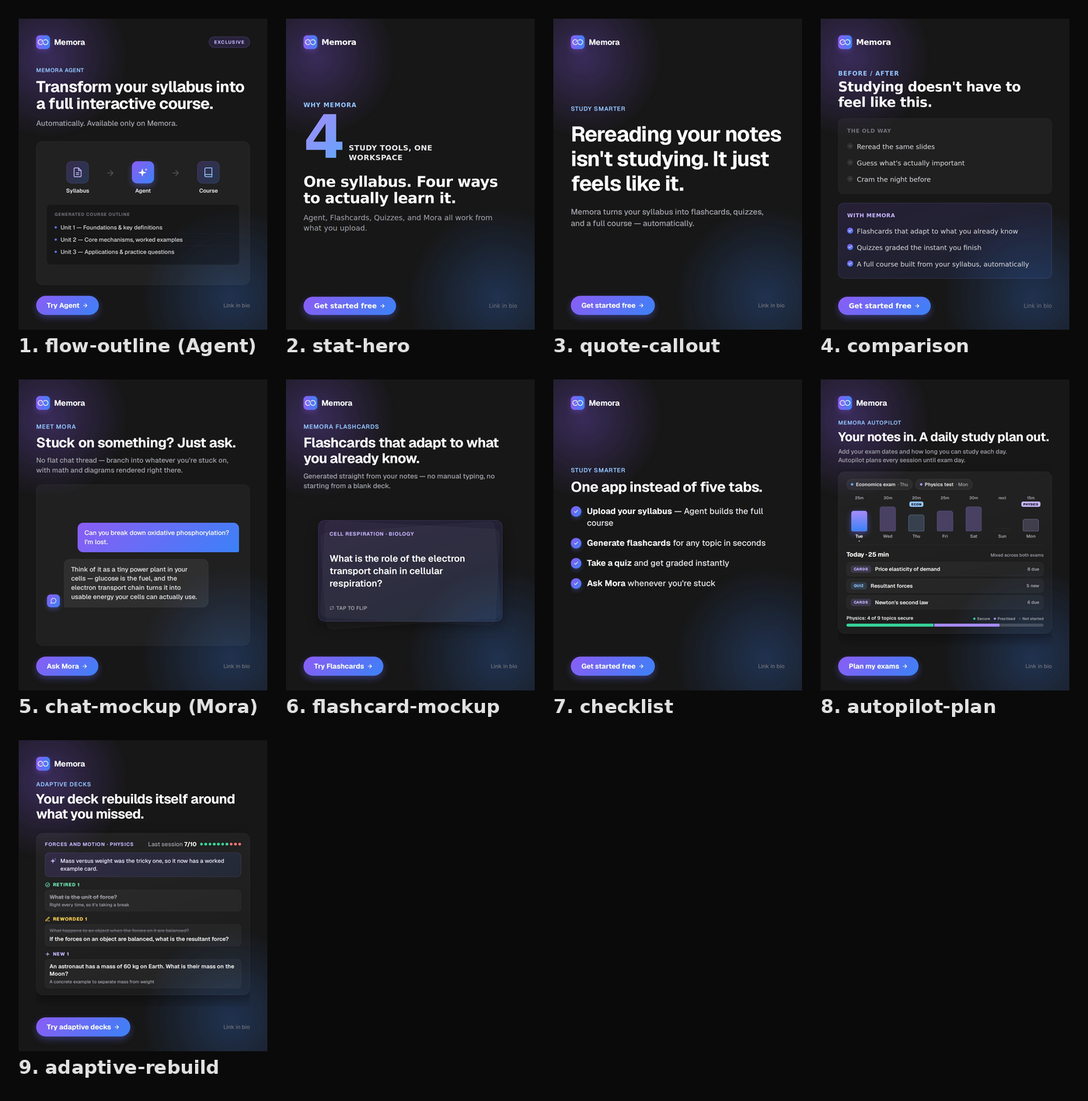
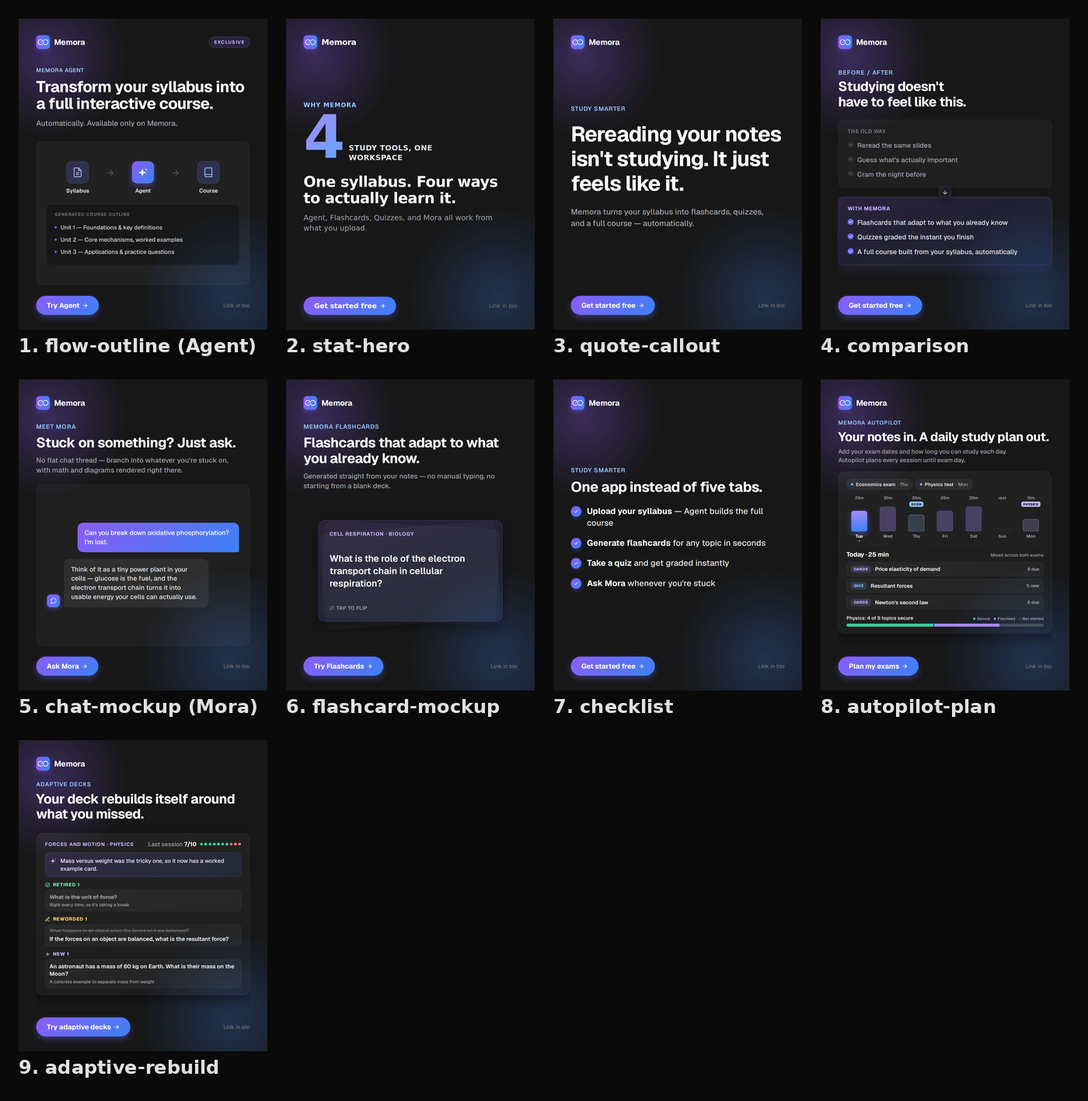
Update `comparison` to stacked bands with `old_*`/`new_*` fields, `RUNBOOK.md` for the Claude Code routine (attached previews repo, hard limits, dashboard commands in the report), and reel captions as copyable `txt` blocks

Changed region(s): [[0.7679, 0.0621, 0.9521, 0.3107]]

diff --git a/post-templates/single-image-card/layouts/comparison/template.html b/post-templates/single-image-card/layouts/comparison/template.html
@@ -30,16 +30,21 @@
   .link-in-bio { color: #71717a; font-size: 24px; font-weight: 500; }
   .hero { flex: 1; display: flex; flex-direction: column; min-height: 0; overflow: hidden; }
 
-  /* ---- layout-specific: two-column before/after split ---- */
-  .comparison-hero { justify-content: flex-start; }
-  .comparison-hero .eyebrow { margin-top: 60px; color: #93c5fd; font-size: 26px; font-weight: 600; letter-spacing: 0.08em; text-transform: uppercase; margin-bottom: 10px; }
-  .comp-headline { color: #ffffff; font-size: 58px; font-weight: 700; letter-spacing: -0.02em; line-height: 1.15; }
-  .columns { flex: 1; min-height: 0; display: flex; align-items: stretch; gap: 36px; margin-top: 40px; }
-  .col { flex: 1; background: rgba(255,255,255,0.04); border: 1px solid rgba(255,255,255,0.08); border-radius: 24px; padding: 40px 38px; display: flex; flex-direction: column; gap: 30px; }
-  .col-new { background: linear-gradient(160deg, rgba(139,92,246,0.14), rgba(59,130,246,0.10)); border: 1px solid rgba(167,139,250,0.35); }
-  .col-title { font-size: 23px; font-weight: 700; letter-spacing: 0.06em; text-transform: uppercase; color: #71717a; margin-bottom: 6px; }
-  .col-new .col-title { color: #c4b5fd; }
-  .row { display: flex; align-items: flex-start; gap: 16px; color: #d4d4d8; font-size: 29px; font-weight: 500; line-height: 1.42; }
+  /* ---- layout-specific: before/after as two full-width bands stacked one above the other ---- */
+  /* "The old way" band on top, "With Memora" band below, each sized to its content; the whole group is centred vertically. */
+  .comparison-hero { justify-content: center; }
+  .comparison-hero .eyebrow { color: #93c5fd; font-size: 26px; font-weight: 600; letter-spacing: 0.08em; text-transform: uppercase; margin-bottom: 10px; }
+  .comp-headline { color: #ffffff; font-size: 58px; font-weight: 700; letter-spacing: -0.02em; line-height: 1.15; text-wrap: balance; }
+  .bands { position: relative; display: flex; flex-direction: column; align-items: stretch; gap: 40px; margin-top: 44px; }
+  .band { width: 100%; background: rgba(255,255,255,0.04); border: 1px solid rgba(255,255,255,0.08); border-radius: 24px; padding: 34px 40px 36px; display: flex; flex-direction: column; gap: 22px; }
+  .band-new { background: linear-gradient(160deg, rgba(139,92,246,0.16), rgba(59,130,246,0.10)); border: 1px solid rgba(167,139,250,0.40); box-shadow: 0 18px 50px rgba(99,102,241,0.16); }
+  .band-title { font-size: 23px; font-weight: 700; letter-spacing: 0.06em; text-transform: uppercase; color: #71717a; margin-bottom: 4px; }
+  .band-new .band-title { color: #c4b5fd; }
+  .band-old .row { color: #a1a1aa; }
+  /* down-arrow between the two bands */
+  .band-arrow { align-self: center; margin: -48px 0; width: 56px; height: 56px; border-radius: 50%; background: #1f1f23; border: 1px solid rgba(167,139,250,0.45); display: flex; align-items: center; justify-content: center; box-shadow: 0 8px 24px rgba(0,0,0,0.45); z-index: 2; }
+  .band-arrow svg { width: 26px; height: 26px; color: #c4b5fd; }
+  .row { display: flex; align-items: flex-start; gap: 16px; color: #e4e4e7; font-size: 29px; font-weight: 500; line-height: 1.42; }
   .marker { flex-shrink: 0; width: 26px; height: 26px; border-radius: 50%; margin-top: 4px; display: flex; align-items: center; justify-content: center; }
   .marker-old { background: rgba(255,255,255,0.08); }
   .marker-old::after { content: ""; width: 10px; height: 2px; background: #71717a; border-radius: 1px; }
@@ -63,14 +68,15 @@
     <div class="hero comparison-hero">
       <div class="eyebrow">{{EYEBROW}}</div>
       <h1 id="headline" class="comp-headline">{{HEADLINE}}</h1>
-      <div class="columns">
-        <div class="col col-old">
-          <div class="col-title">{{LEFT_TITLE}}</div>
-          {{LEFT_ITEMS}}
+      <div class="bands">
+        <div class="band band-old">
+          <div class="band-title">{{OLD_TITLE}}</div>
+          {{OLD_ITEMS}}
         </div>
-        <div class="col col-new">
-          <div class="col-title">{{RIGHT_TITLE}}</div>
-          {{RIGHT_ITEMS}}
+        <div class="band-arrow"><svg viewBox="0 0 24 24" fill="none" stroke="currentColor" stroke-width="2.4" stroke-linecap="round" stroke-linejoin="round"><line x1="12" y1="5" x2="12" y2="19"/><polyline points="5 12 12 19 19 12"/></svg></div>
+        <div class="band band-new">
+          <div class="band-title">{{NEW_TITLE}}</div>
+          {{NEW_ITEMS}}
         </div>
       </div>
     </div>

diff --git a/post-templates/single-image-card/render.py b/post-templates/single-image-card/render.py
@@ -228,8 +228,8 @@ LAYOUTS = {
     },
     "comparison": {
         "list_fields": {
-            "left_items": lambda items: build_comparison_rows(items, "old"),
-            "right_items": lambda items: build_comparison_rows(items, "new"),
+            "old_items": lambda items: build_comparison_rows(items, "old"),
+            "new_items": lambda items: build_comparison_rows(items, "new"),
         },
         "fit_max_lines": 2,
         "fit_min_px": 38,

diff --git a/RUNBOOK.md b/RUNBOOK.md
@@ -1,22 +1,27 @@
 # Batch run
 
-The brief for the scheduled task. Every firing starts a **fresh, empty cloud container with no memory of how any of this was built**, so this file is the whole story — read it in full before doing anything. This file is meant to be self-contained -- everything needed to run a batch end to end is here.
+The brief for the daily **Claude Code routine** ("Memora outreach posts", claude.ai/code/routines) that makes Memora's single-image and slideshow posts and queues them as drafts for Armaan's review. Every run starts a **fresh cloud session with no memory of how any of this was built**, so this file is the whole story: read it in full before doing anything. (Reels are a separate routine with their own brief, `reels/REELS-RUNBOOK.md`; nothing here applies to them.)
 
 ## Where you are
 
-**A Cowork scheduled task running entirely in the cloud container — no device binding, and nothing here touches Armaan's Mac.** This isn't assumed, it's been checked (confirmed 2026-09-04): Playwright/Chromium is pre-installed, real outbound network reaches npm/PyPI/GitHub, and the Supabase MCP connector works — **but is proxied outside this container's own restricted shell egress**, the same way memora-growth's MCP connectors are proxied outside ITS shell's zero-network local Mac environment. Concretely: **the plain shell cannot reach `*.supabase.co` directly** (confirmed by the capability test's own failed raw upload attempt, and reconfirmed 2026-09-05 against Make.com's webhook host too — this is a general outbound allowlist, not a Supabase-specific block) — every Supabase read, write, and file upload in this run goes through `execute_sql` (an MCP tool call), never through `curl`/`requests`/a raw HTTP client in the shell.
+A Claude Code cloud session on Anthropic's infrastructure, started by the routine's schedule. Nothing here touches Armaan's Mac. What you can reach, and how:
 
-**First step of every run, before anything else:**
+- **Repositories (already cloned on their default branches by the routine; never clone them yourself):**
+  `memora-outreach-bot` (this pipeline: templates, `pipeline/`, `topics.json`, `claude-knowledge/`) and
+  `memora-outreach-render-previews` (private; the render worker pushes a copy of every finished render there, which is how you see it in Stage 5). Find both and give them fixed names before anything else:
+  ```bash
+  for d in "$PWD" "$PWD"/.. ~ /home/*; do for r in "$d"/*/; do u=$(git -C "$r" remote get-url origin 2>/dev/null) || continue
+    case "$u" in *memora-outreach-bot*) ln -sfn "${r%/}" ~/ob;; *memora-outreach-render-previews*) ln -sfn "${r%/}" ~/previews;; esac; done; done
+  ls -l ~/ob ~/previews && cd ~/ob
+  ```
+  If `~/ob` is missing, stop and report "the routine's repository list is missing memora-outreach-bot". If only `~/previews` is missing, carry on and use Stage 5's fallback.
+  Run every command below from `~/ob`. Your working files (`history_raw.json`, `content.json`, ...) live there as untracked files; nothing is ever committed.
+- **Supabase: only through the Supabase connector** (`execute_sql`, `get_project`). Project `memora-outreach` (id `dtyiuknezuzqohdxicbg`), the isolated outreach project, never memora-web's (the connector can see both; never touch the other one). The session's shell has no route to `*.supabase.co` or the render worker's `*.workers.dev` URL, and doesn't need one.
+- **GitHub: git only, through the session's GitHub proxy**, for the two attached repositories.
 
-```bash
-git clone <REPO_URL> outreach-bot && cd outreach-bot
-```
+Rendering does not happen in this session: Stage 4 queues it to `memora-render-worker` (a Cloudflare Worker) through a database row and polls for the result.
 
-`<REPO_URL>` — filled into the scheduled task's own prompt, not here, so this file doesn't go stale if the URL ever changes. A fresh container has nothing on disk otherwise: no templates, no `topics.json`, no `pipeline/` scripts.
-
-Supabase project: `memora-outreach` (id `dtyiuknezuzqohdxicbg`, `https://dtyiuknezuzqohdxicbg.supabase.co`). This is the isolated dashboard project, not memora-web's — never point anything at memora-web's project.
-
-Rendering itself does not happen in this container at all — it's queued to `memora-render-worker` (a separate Cloudflare Worker; see that repo's SETUP.md) and polled for. That Worker's own `*.workers.dev` URL is **also** unreachable directly from this container's shell, confirmed the same way as the `*.supabase.co` block above (2026-09-11) — so is `raw.githubusercontent.com` and `cdn.jsdelivr.net`, for what it's worth. `api.github.com` is the one arbitrary host that same proxy does let through, which is the only reason Stage 5 below is possible at all — see that stage for why.
+**Before Stage 0, check the project is awake:** `get_project` for `dtyiuknezuzqohdxicbg`. Free projects pause after about a week idle. If its status isn't `ACTIVE_HEALTHY`, stop and report "memora-outreach is paused: restore it in the Supabase dashboard, then run the routine again." Never restore it yourself.
 
 ## Hard rules
 
@@ -84,6 +89,8 @@ retired or added). Retired items are ones answered right every time; reworded on
 ones target exactly what the note says was missed. Use "deck"/"cards" or "quiz"/"questions" consistently with `eyebrow` and
 `material_label`. Never say rebuilding is free (it costs credits); the cards and questions are subject claims and get fact-checked.
 
+**comparison** is two full-width bands stacked one above the other: `old_title` / `old_items` (the old way) on top, `new_title` / `new_items` (with Memora) below. 2-4 items per band, ideally the same number in both, each short enough to sit on one line (about 45 characters or fewer). Every `new_items` line is a product claim and gets checked against `memora-overview.md` like any other.
+
 **stat-hero's `stat_unit` has a hard 3-line cap.** Unlike the headline, it has no auto-shrink at render time -- if it comes out past 3 lines the Worker throws and the render fails outright, not a style nit. Keep it well under 40 characters if you can; actual wrapping depends on word shapes as much as raw character count (a few short common words wrap far more forgivingly than one long compound one), so when in doubt, write it shorter than you think you need to.
 
 **Slideshows' closing (`type: "closer"`) slide must be freshly written every time, tied to the specific topic just covered -- never reuse `content-example.json`'s closer text as-is.** Its `heading` and `text` should read like the last beat of *this* topic's story (a callback to what the deck just covered, a one-line takeaway, a reason it mattered) -- if the exact same words would fit unedited onto a completely different topic's deck, rewrite them. `cta` can stay a simple "Link in bio"; it's the `heading`/`text` that need to change post to post.
@@ -125,31 +132,30 @@ Loop with a short pause between checks (this container has no scheduler of its o
 
 ### Stage 5 — Look at it (you, Claude, vision)
 
-Required for every post, both formats — same requirement as always, just a different route to the actual pixels. The rendered image only exists in Supabase Storage now (there's no local file on this container's own disk to `Read`), and this container's egress proxy blocks `*.supabase.co` and `*.workers.dev` outright (confirmed 2026-09-11 — see "Where you are" above), so neither Storage's public URL nor the Worker itself is directly reachable from here. `memora-render-worker` also pushes a copy of each rendered image to a small private GitHub repo for exactly this reason (see that repo's `src/index.js`, `pushPreview`).
+Required for every post, both formats. The rendered image only exists in Supabase Storage, which the session's shell can't reach, so `memora-render-worker` also pushes a copy of each render to the private `memora-outreach-render-previews` repository at `preview/<render_requests id>/<n>.jpg` (see that repo's `src/index.js`, `pushPreview`). The routine attaches that repository, so:
 
-Fetch that copy over git, not the REST Contents API — `api.github.com`'s Contents/tarball endpoints are gated by a session-level repo allowlist this container can't satisfy (confirmed 2026-09-12: same 403 regardless of whether the target repo is public or private), but plain git-over-HTTPS against `github.com` is not. A partial, sparse clone keeps this fast and bounded even as the previews repo accumulates every image it's ever received:
-
-1. Get the preview token — used only as a header value in step 2, never written into this run's own output or into any git config on disk:
-   ```sql
-   select decrypted_secret from vault.decrypted_secrets where name = 'github_preview_token';
-   ```
-2. Once per render (not once per image): fetch just this render's own folder, nothing else in the repo's history —
+1. Once `render_requests.status` is `done`, update the clone:
    ```bash
-   rm -rf preview_fetch && mkdir preview_fetch && cd preview_fetch
-   AUTH=$(printf 'x-access-token:%s' '<token from step 1>' | base64 | tr -d '\n')
-   git -c http.extraHeader="Authorization: Basic ${AUTH}" \
-       clone --no-checkout --depth 1 --filter=blob:none \
-       https://github.com/Armaan-Mahajan/memora-outreach-render-previews.git .
-   git sparse-checkout set --no-cone "preview/<render_requests id>"
-   git checkout
-   cd ..
-   unset AUTH
+   git -C ~/previews pull --ff-only --quiet
+   ls ~/previews/preview/<render_requests id>/
    ```
-   Use **Basic** auth, not Bearer -- GitHub's git-over-HTTPS smart protocol wants a PAT as an HTTP Basic password (username can be any non-empty string; `x-access-token` is the GitHub-documented convention). A raw `Authorization: Bearer <token>` header gets a 401 (confirmed 2026-09-12, first live run) -- go straight to Basic, don't rediscover this by trial and error each time. `-c http.extraHeader=...` is scoped to that one command -- it's never written into `.git/config`, and `unset AUTH` clears the encoded credential from the shell's environment once the clone finishes. `--filter=blob:none` plus the sparse-checkout means only this render's own images are ever downloaded, not the whole repo's accumulated history.
-3. `Read` each `preview_fetch/preview/<render_requests id>/<n>.jpg` in order (`1` for a single-image card, `1..slide_count` for a slideshow). There's no single contact-sheet image to lean on anymore now that rendering happens in the Worker — for slideshows, walk every slide individually. Check for orphaned words, cramped/empty composition, whether the cover earns a swipe (slideshows), whether the deck reads as a coherent sequence. Output: pass, or a specific list of fixes.
-4. `rm -rf preview_fetch` once you're done looking — don't let clones pile up across posts in the same run.
+   The worker pushes the preview just after it marks the row done; if the folder isn't there yet, `sleep 10` and pull again (up to 6 times).
+2. `Read` each `~/previews/preview/<render_requests id>/<n>.jpg` in order (`1` for a single-image card, `1..slide_count` for a slideshow; walk every slide). Check for orphaned words, cramped or empty composition, text that collides or overflows, whether the cover earns a swipe (slideshows) and whether the deck reads as a coherent sequence. Output: pass, or a specific list of fixes.
 
-If the clone itself fails — an expired token, an auth error, or `pushPreview` silently not landing a copy (it's deliberately best-effort on the Worker's side, so a GitHub hiccup there never fails an otherwise-good render) — that's still a Stage 5 failure: don't ship a post you couldn't actually look at. Report it and let Stage 6 or the stop-and-report path handle it.
+**Fallback, only if `~/previews` is missing** (the repository isn't attached): read the token with
+`select decrypted_secret from vault.decrypted_secrets where name = 'github_preview_token';` and fetch just this render's folder:
+```bash
+rm -rf ~/preview_fetch && mkdir ~/preview_fetch && cd ~/preview_fetch
+AUTH=$(printf 'x-access-token:%s' '<token>' | base64 | tr -d '\n')
+git -c http.extraHeader="Authorization: Basic ${AUTH}" clone --no-checkout --depth 1 --filter=blob:none \
+    https://github.com/Armaan-Mahajan/memora-outreach-render-previews.git .
+git sparse-checkout set --no-cone "preview/<render_requests id>"
+git checkout
+unset AUTH; cd ~/ob
+```
+Use **Basic** auth with the token as the password (a `Bearer` header gets a 401), never write the token into a file or git config, read the images from `~/preview_fetch/preview/<id>/`, then `rm -rf ~/preview_fetch`.
+
+If the preview never arrives or can't be fetched, that's still a Stage 5 failure: don't queue a post you couldn't look at. The worker's preview push is best-effort, so report it and let Stage 6 or the stop-and-report path handle it.
 
 ### Stage 6 — Repair loop
 
@@ -188,10 +194,36 @@ python3 pipeline/publish.py insert-sql \
   --notes "<Stage 3 / Stage 7 flags, or omit>"
 ```
 
-Run the printed `sql` via `execute_sql` once, then re-query the row back by its returned `id` to confirm it actually exists with `status = 'pending'` and the expected `asset_urls` — don't just trust the INSERT's own "returning id" as proof it landed. That's the draft queued as `status='pending'` for Armaan's dashboard review — nothing posts to Instagram itself yet (Make.com automation for posting is a separate, later build, unrelated to any of the above).
+Run the printed `sql` via `execute_sql` once, then re-query the row back by its returned `id` to confirm it actually exists with `status = 'pending'` and the expected `asset_urls` — don't just trust the INSERT's own "returning id" as proof it landed. That's the draft queued as `status='pending'` for Armaan's dashboard review. Nothing posts to Instagram: there is no posting automation yet, so approving a draft in the dashboard only changes its status.
 
 One fresh subagent per post here too, same reasoning as Stage 3.
 
 ### Stage 9 — Report
 
-Per post: made / flagged / failed, with reasons. Stdout is fine for now — the dashboard is the real review surface, this is just for debugging a run that didn't go as expected.
+Your final message is the report Armaan reads, so make it scannable:
+
+1. One line per post: `post <n>`: format, feature or topic, layout, headline, and **queued**, **queued with flags** (what Stage 3 / Stage 7 flagged) or **failed** (the stage and the reason). Then the batch total (e.g. "4 of 5 queued") and any repair attempts.
+2. Then, if at least one draft was queued, how to review them, as **copyable commands in their own fenced `bash` blocks** (exactly these, so he can paste them into his Mac's terminal):
+
+   Start the review dashboard:
+   ```bash
+   cd /Users/armaanmahajan/Documents/Projects/Memora/outreach-dashboard && npm run dev
+   ```
+   Then open it (in a second terminal tab, or paste the address into a browser):
+   ```bash
+   open http://localhost:3000
+   ```
+   Follow them with one line each: approve or reject each draft on the **Pending** tab; if port 3000 is already in use (for example by the demo app), Next.js picks the next free port and prints the address to open; stop the server with Ctrl+C when done. And say plainly: **approving doesn't post anything yet**, since there's no posting automation; it only marks the draft approved (rejected drafts are kept so their angles aren't reused).
+3. If nothing was queued, skip the commands and say what stopped the batch.
+
+Don't attach the report or the images as files: the drafts are in the dashboard.
+
+## Hard limits
+
+- **Database:** only the SQL this RUNBOOK names: the `get_project` check, Stage 0's two `select`s, Stage 4's insert (exactly as `publish.py render-request-sql` prints it) and its status poll, Stage 8's `storage.objects` size check and insert (exactly as `publish.py insert-sql` prints it) and its read-back, and Stage 5's fallback Vault read. Never hand-write an insert. No `UPDATE`, `DELETE`, `DROP`, `ALTER`, `TRUNCATE` or other DDL, no RLS or policy changes, nothing on any other table, nothing on any other Supabase project.
+- **Vault:** read only `github_preview_token`, and only for Stage 5's fallback. Never print, echo or log a secret.
+- **Repositories:** never edit, commit or push anything. Your only git commands are Stage 5's `pull` in `~/previews` (or its fallback clone in `~/preview_fetch`) and the lookup at the top of this file.
+- **Shell:** the repository lookup and `ls`; `python3 pipeline/history.py|assign.py|checks.py|publish.py` with the arguments shown here (never `python3 -c` or any other script); `sleep`; `cd`, `mkdir`; `rm -rf` on `~/preview_fetch` only; and the fallback's `printf | base64 | tr` with `unset AUTH`. Write JSON files with the file tools. No `curl`, `wget`, `ssh`, `chmod`, `sudo` or package installs.
+- **Subagents:** one fresh subagent per post per stage (Stages 3 and 8), never one subagent for two posts.
+- **Failures:** one bad post fails alone and the batch carries on; a systemic failure (Supabase unreachable, every render failing, the worker not responding) stops the batch and gets reported.
+- **Posting:** drafts only. Never post to Instagram or anywhere else, and never change a draft's status.

diff --git a/README.md b/README.md
@@ -37,14 +37,14 @@ A normal run makes three planned reels. Next: deeper coverage of the quiz viewer
 
 ## images (`pipeline/`, `post-templates/`)
 
-The original automation: single-image posts and slideshow carousels, drafted daily by a scheduled cloud run (1AM IST) that follows `RUNBOOK.md`.
+The original automation: single-image posts and slideshow carousels, drafted daily by a Claude Code routine that follows `RUNBOOK.md` and ends its report with the commands to open the review dashboard locally.
 
 - **Topics.** `topics.json` is a curated allowlist of about 190 topics, split roughly evenly between upper high school (AP, IB DP, A-Level) and younger high school (ages 13-15), each tagged with its `level`. `pipeline/assign.py` rotates through it deterministically and never repeats a topic until the list is used up. The content step isn't allowed to write about anything outside it.
 - **Design as code.** Templates, layouts and design rules live in `post-templates/`, and the content step reads them before writing copy. Slideshows carry no diagrams on purpose: a wrong diagram looks right and slips past review.
 - **Fact-checking.** A fresh subagent with no memory of how the copy was written checks every factual claim and has to say what it actually checked, not just return a verdict.
 - **Verify-and-queue.** After rendering, another fresh subagent compares the size of the file actually stored against what the Worker reported, which catches the one failure that can look like a successful upload, and only then inserts the draft. Every post gets its own subagents and posts run one at a time, so a mistake in one can't leak into another, and each post can see the ones queued before it.
 - **Rendering.** Rendering runs in a separate Cloudflare Worker, `memora-render-worker`, which renders and uploads to Supabase Storage itself. Earlier attempts pushed image bytes through an LLM's tool calls, through this repo, and through Make.com; each was slow, fragile or blocked by the sandbox's network limits. This repo just queues a `render_requests` row; a database trigger hands it to the Worker. A small private repo, `memora-outreach-render-previews`, mirrors every render so the run's vision check can see it, since the container can't reach Storage directly.
-- **Review.** Finished posts are queued in `outreach_drafts`, which a small review dashboard reads; I approve, reject or schedule every post by hand. Posting itself will go through a Make.com hookup from the dashboard, never from a run.
+- **Review.** Finished posts are queued in `outreach_drafts`, which a small local review dashboard (`npm run dev`) reads; I approve, reject or schedule every post by hand. Approving doesn't post anything yet: the posting automation hasn't been built, and it will run from the dashboard side, never from a run.
 
 ## status
 

diff --git a/reels/REELS-RUNBOOK.md b/reels/REELS-RUNBOOK.md
@@ -190,14 +190,27 @@ in the **same style as the single-image posts** — read the caption rules in th
 Before replying, check each caption against earlier ones: write it to `~/reels-run/history/caption-<n>.txt` and run
 `python3 ~/ob/reels/plan/history.py check-caption ~/reels-run/history/caption-<n>.txt ~/reels-run/assignment.json`. If it's
 flagged, rewrite it until it isn't (a different opening line and angle, not synonyms).
-Reply with one block per approved reel, headed with its file name, the caption ready to paste and the hashtags on the last line.
+Reply in the chat itself, never as an attached file (no `SendUserFile`, no `.txt` attachments): for each approved reel, a
+one-line heading with its file name, then the whole caption inside its own fenced code block marked `txt`, so the chat shows a
+copy button and Armaan can paste it into Instagram as is. The block holds exactly what gets pasted: the caption, a blank line,
+then the 5 hashtags on one line, with no heading, quotes or notes inside it. For example:
+
+`2026-10-14-reel 1.mp4`
+````
+```txt
+<caption paragraphs>
+
+#tag1 #tag2 #tag3 #tag4 #memora
+```
+````
+Anything else you want to say (what you changed after a check-caption flag, say) goes outside the blocks.
 Then record the verdict: write `~/reels-run/history/verdict.json` —
 `{"approved": [{"reel_no": 1, "caption": "…", "hashtags": ["#…", "#…", "#…", "#…", "#memora"]}], "rejected": [2, 3]}` (every reel
 sent today is either approved or rejected) — run `python3 ~/ob/reels/plan/reel_sql.py verdict <date> ~/reels-run/history/verdict.json`
 and run its SQL with `execute_sql`. If Armaan later changes a caption or his mind, write the new verdict and run it again.
 (If the session was restored after being idle and `~/reels-run` is gone, redo stage 1's lookup, re-run stage 3's two queries and
 `assign` with today's date to rebuild `assignment.json`, and write the files again.)
-If the reels went out by branch (stage 9 step 2), also commit the same blocks as `<date>/captions.md` on that branch and push
+If the reels went out by branch (stage 9 step 2), also commit the same captions as `<date>/captions.md` on that branch and push
 it (if the session was restored after being idle and `~/reels-out` is gone, redo stage 1's lookup and
 `git checkout claude/reels-<date>` first).
 Nothing gets posted: Armaan uploads the reels and captions himself; the only thing stored is the `outreach_reels` record. If he asks for changes, revise and reply again.

diff --git a/post-templates/single-image-card/README.md b/post-templates/single-image-card/README.md
@@ -15,7 +15,7 @@ Instead, variety lives one level up: a small, hand-built library of **layouts**,
 | `flow-outline` | Syllabus → Agent → Course flow diagram + a generated-outline preview panel | Agent (the one layout still tied to specific hardcoded flow-diagram content) |
 | `stat-hero` | Oversized numeral + headline, vertically centered | Generic "why Memora" claims |
 | `quote-callout` | One big typographic statement, no panel at all | A sharp one-liner / hook post |
-| `comparison` | Two-column "old way / with Memora" split | Generic persuasion, pain-point-led |
+| `comparison` | "Old way / with Memora" as two full-width bands stacked one above the other (old on top, Memora below), sized to content and centred | Generic persuasion, pain-point-led |
 | `chat-mockup` | Stylized Mora conversation, user + Mora bubbles | Mora |
 | `flashcard-mockup` | Stylized flashcard stack with a front-side question | Flashcards |
 | `checklist` | Vertical benefit checklist, hero-sized (distinct from `flow-outline`'s compact outline panel) | Generic tips / "why students switch" posts |
